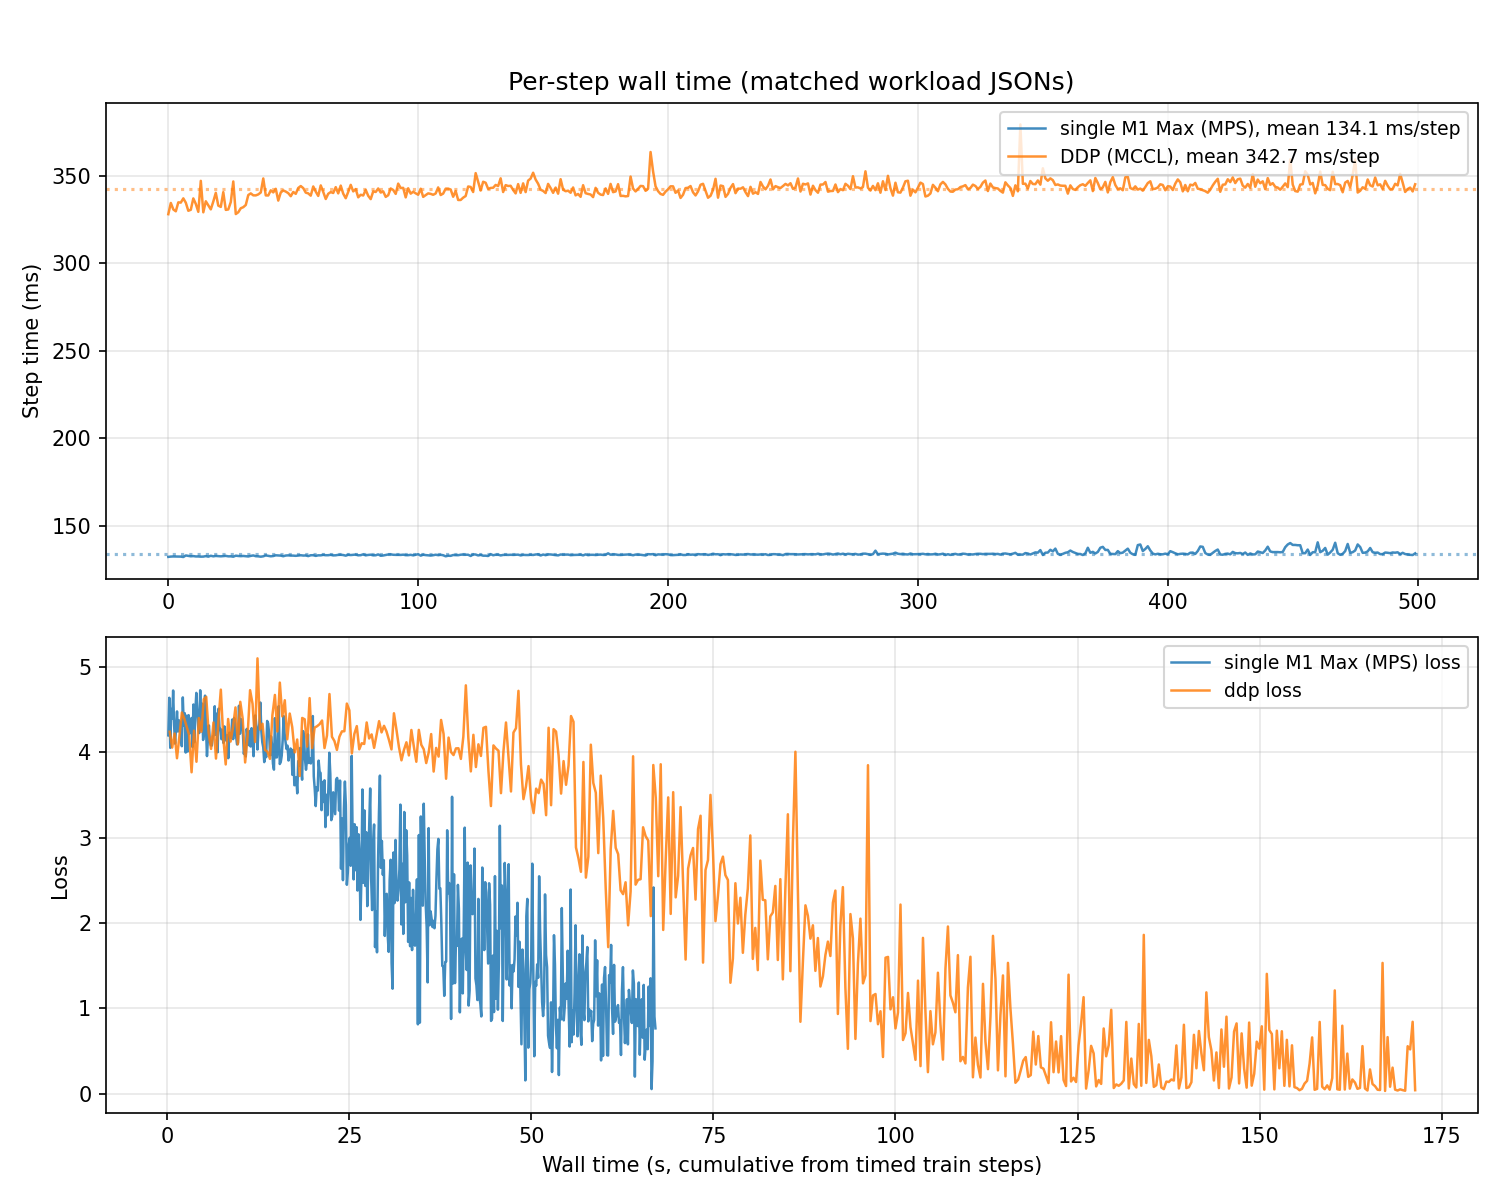
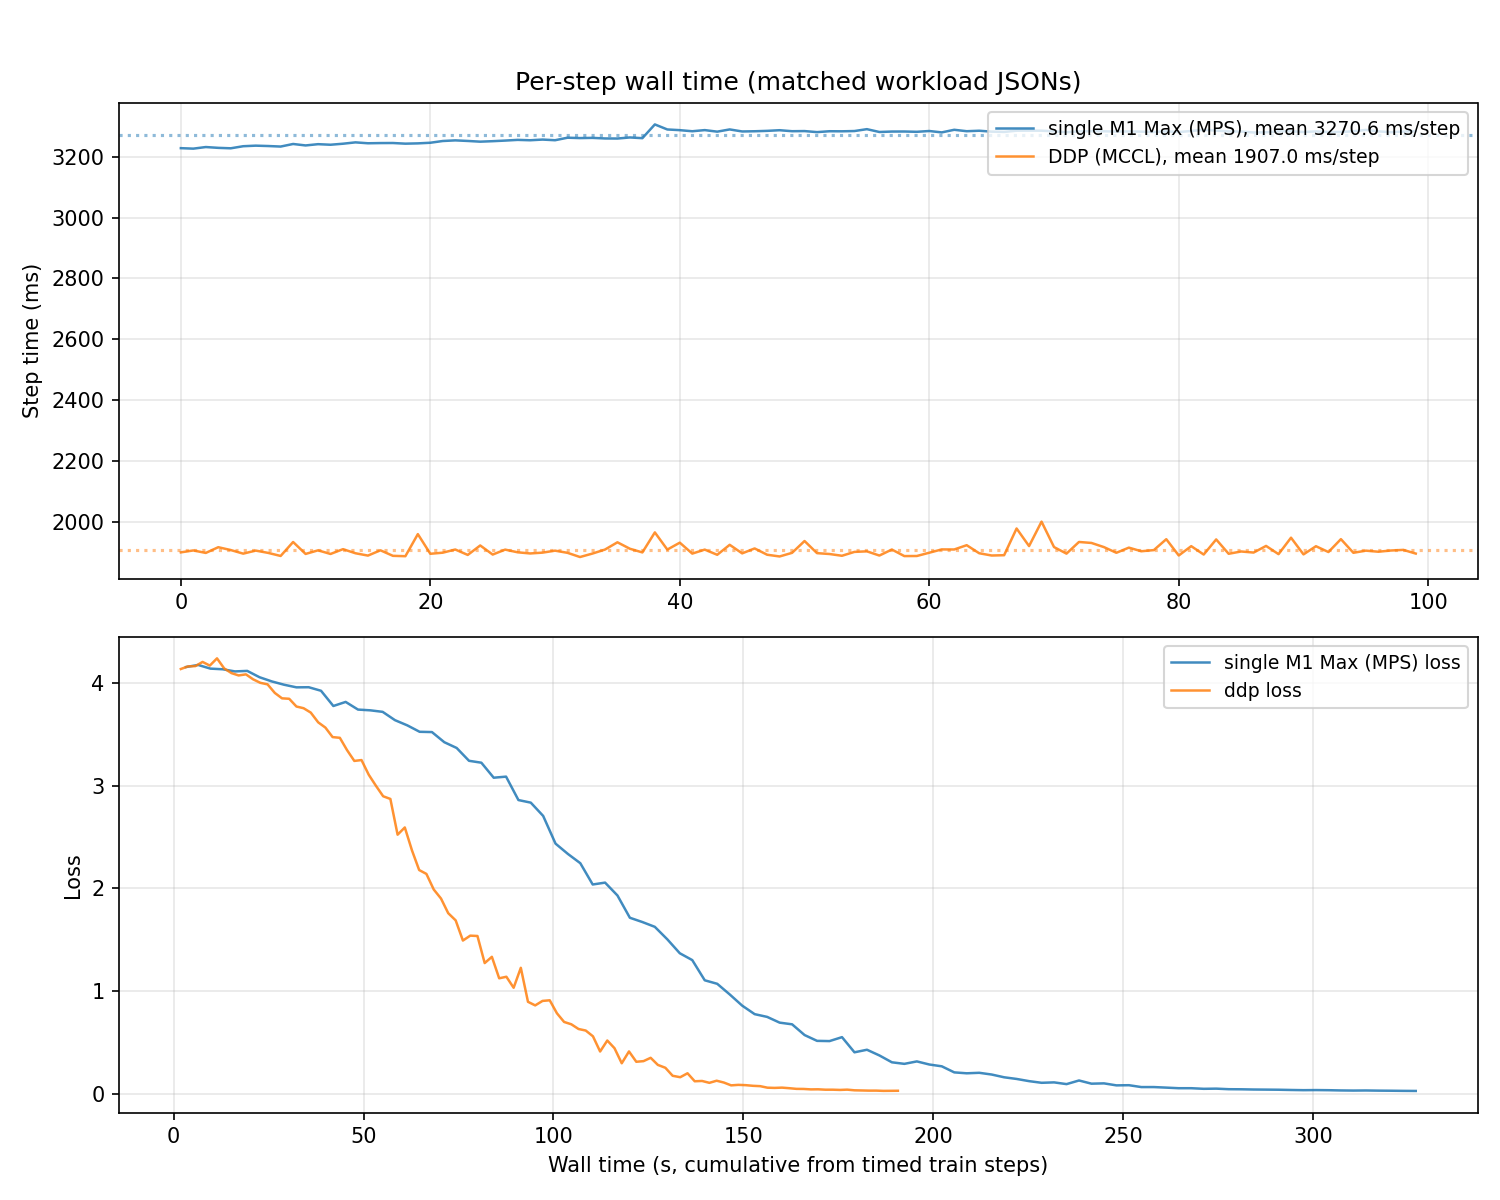
add updated tests

diff --git a/examples/ddp_dummy_train.py b/examples/ddp_dummy_train.py
@@ -53,16 +53,16 @@ If MPS runs out of memory, lower ``BATCH_SIZE`` (e.g. 2) or reduce ``MODEL_HIDDE
 
 Optional env (see MCCL docs): ``MCCL_LISTEN_ADDR``, ``MCCL_PORT_BASE``, ``MCCL_TRANSPORT``,
 ``MCCL_LINK_PROFILE=thunderbolt`` (production TCP tuning on Thunderbolt IP — see ``scripts/thunderbolt_prod.sh``).
-Training env: ``TRAIN_STEPS`` (default 500), ``BATCH_SIZE`` (default 4 per rank),
+Training env: ``TRAIN_STEPS`` (default 500), ``BATCH_SIZE`` (default **128** per DDP rank → global **256** with 2 ranks),
 ``DDP_BUCKET_MB`` (default 25; **512** if ``MCCL_LINK_PROFILE=thunderbolt`` and unset; else try **50–200+** for 2-node),
 ``TRAIN_AUTOCAST_FP16=1`` for ``torch.autocast`` fp16 forward+loss (smaller/faster on MPS),
 ``MCCL_COMPRESSION=fp16`` when supported (halves cross-host bytes).
 
 **Multi-node guide**: ``docs/MULTINODE.md`` (firewall, listen addr, baseline matching).
 
-**Fair baseline vs DDP**: set ``BASELINE_BATCH_SIZE`` to the **global** batch
-(``BATCH_SIZE * WORLD_SIZE`` from your DDP run), e.g. ``BASELINE_BATCH_SIZE=8``
-for 4 per rank × 2 nodes.
+**Fair baseline vs DDP**: default baseline batch is **256** (global on one GPU).
+DDP default is **128 per rank** × **world 2** = **256** global. Override with
+``BASELINE_BATCH_SIZE`` / ``BATCH_SIZE`` if you OOM.
 
 **Why it looks like a "hang"**
 
@@ -428,9 +428,11 @@ def single_gpu_baseline(save_stats: str | None = None) -> None:
     loss_fn = nn.CrossEntropyLoss()
 
     steps = int(os.environ.get("TRAIN_STEPS", "500"))
-    batch_size = int(os.environ.get("BATCH_SIZE", "4"))
     if os.environ.get("BASELINE_BATCH_SIZE"):
         batch_size = int(os.environ["BASELINE_BATCH_SIZE"])
+    else:
+        # Default 256 global on one GPU — matches 2-rank DDP with BATCH_SIZE=128 each.
+        batch_size = int(os.environ.get("BATCH_SIZE", "256"))
     input_dim, num_classes, _, _ = _model_dims_from_env()
     dataset = SyntheticDataset(input_dim, num_classes)
 
@@ -439,7 +441,7 @@ def single_gpu_baseline(save_stats: str | None = None) -> None:
     print(
         f"Single GPU baseline | device={device}\n"
         f"  Model: {total_params:,} params{'  MCCL_STRESS_MODEL' if st else ''}\n"
-        f"  Batch: {batch_size} (set BASELINE_BATCH_SIZE=global_batch to match DDP)\n"
+        f"  Batch: {batch_size} global (override BASELINE_BATCH_SIZE / BATCH_SIZE if OOM)\n"
         f"  Steps: {steps}\n"
         f"  INPUT_DIM={input_dim} NUM_CLASSES={num_classes} "
         f"(MODEL_HIDDEN/MODEL_DEPTH from env)",
@@ -620,7 +622,7 @@ def main() -> None:
     loss_fn = nn.CrossEntropyLoss()
 
     steps = int(os.environ.get("TRAIN_STEPS", "500"))
-    batch_size = int(os.environ.get("BATCH_SIZE", "4"))
+    batch_size = int(os.environ.get("BATCH_SIZE", "128"))
     input_dim, num_classes, _, _ = _model_dims_from_env()
     dataset = SyntheticDataset(input_dim, num_classes)
 

diff --git a/README.md b/README.md
@@ -47,28 +47,32 @@ dist.init_process_group(backend="mccl", rank=rank, world_size=world_size)
 model = DDP(MyModel().to("mps"))
 ```
 
-## Throughput chart (one run)
+`ddp_dummy_train.py` defaults: **DDP** `BATCH_SIZE=128` per rank (global **256** with 2 ranks); **`--baseline`** global **256** unless you set `BASELINE_BATCH_SIZE` / `BATCH_SIZE`. Lower if you OOM.
 
-**Numbers from that run** (`--save-stats` + `examples/benchmark_throughput.py`): **~59.6** vs **~22.9** samples/s (baseline vs 2-rank DDP), **~2.6×** throughput ratio — **only** for that JSON, not a spec.
+## Throughput (example — **your mileage will vary**)
 
-**Setup was wrong for a fair fight:**
+Latest author run (`examples/ddp_dummy_train.py` + `--save-stats` + `examples/benchmark_throughput.py`):
 
-| | Baseline | DDP |
-|--|--|--|
-| Hardware | **1× M1 Max** | **2 Macs, mixed SoCs** (e.g. M1 Max + M4 Max) |
-| Network | — | **TCP**, TB3-class link |
-| Model / batch | ~96M-param example, **global batch 8** | same |
+```
+single M1 Max (MPS):  78.3 samples/s   (global_batch=256, world=1)
+DDP (MCCL):          134.2 samples/s   (global_batch=256, world=2)
+baseline / DDP:      0.58×  → DDP ~172% of baseline samples/s
+params:              96,510,024 (same both sides)
+```
 
-So: **slowest rank wins the step**, baseline never hits the network, chips don’t match — **don’t read this as “MCCL is 2.6× slower” in general.** No same-SKU cluster to test on; **PR [RESULTS.md](RESULTS.md)** if you have better data.
+**Global batch 256:** baseline = `BASELINE_BATCH_SIZE=256` (or `BATCH_SIZE=256` on one process). DDP = **`BATCH_SIZE=128` per rank × 2 ranks** (or 256×1 on two nodes — same global).
+
+**Takeaway:** with this **~96M-param** model, **big batch + higher GPU/memory util**, **2-rank MCCL DDP beat one M1 Max** on **samples/s** in our JSON. With **small global batch** (we’ve seen **global 8**), **comm/sync dominated** and DDP looked **much slower**. **Hardware mix still matters** (slowest rank sets the step); **PR [RESULTS.md](RESULTS.md)** with your setup.
 
 ```bash
+# Match global batch: e.g. DDP BATCH_SIZE=128 × world 2 → baseline BASELINE_BATCH_SIZE=256
 python examples/ddp_dummy_train.py --baseline --save-stats baseline_stats.json
 torchrun --nproc_per_node=2 --nnodes=1 --master_addr=127.0.0.1 --master_port=29500 \
   examples/ddp_dummy_train.py --save-stats ddp_stats.json
 python examples/benchmark_throughput.py --baseline baseline_stats.json --ddp ddp_stats.json -o bench
 ```
 
-`bash scripts/benchmark_matrix.sh` — other checks. Env knobs: [examples/ddp_dummy_train.py](examples/ddp_dummy_train.py).
+`bash scripts/benchmark_matrix.sh` — other checks. Env: [examples/ddp_dummy_train.py](examples/ddp_dummy_train.py).
 
 ![bench](bench.png)  
 ![bars](bench_bars.png)
@@ -108,7 +112,7 @@ mccl.get_metrics(); mccl.log_metrics(); mccl.reset_metrics()
 
 ## Thunderbolt, TCP, and what was tested
 
-- **Throughput charts in this repo:** two Macs talking over a **Thunderbolt bridge IP** using the **TCP** transport path (TB3-class link in our case). **Not RDMA.**
+- **Throughput charts in this repo:** **TCP** over a **Thunderbolt bridge IP** (TB3-class link here). **Not RDMA.** Plots match the **high global-batch** run above unless you regenerate.
 - **Ethernet / Wi‑Fi:** same code paths; expect worse RTT and throughput than a direct TB cable between hosts.
 - **`MCCL_LINK_PROFILE=thunderbolt`:** optional buffer/chunk tuning when peers are on a TB link — see [docs/MULTINODE.md](docs/MULTINODE.md).
 - **Cabling / `169.254.x.x` / firewall:** [docs/THUNDERBOLT_SETUP.md](docs/THUNDERBOLT_SETUP.md).
